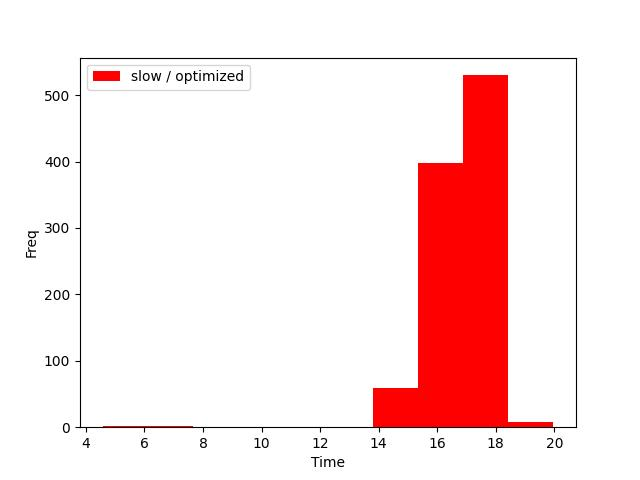
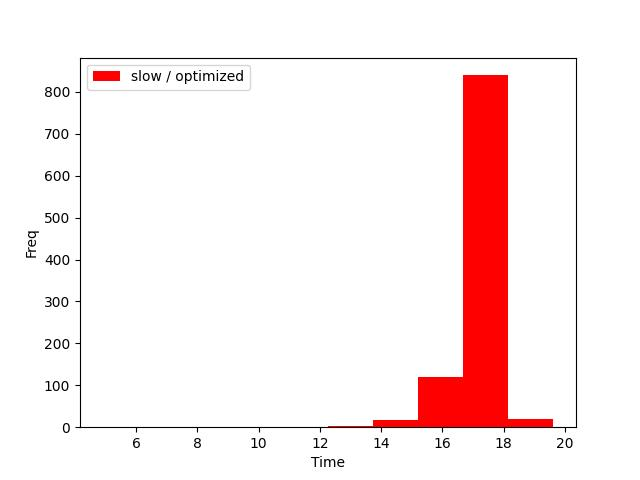
plot&hist 123

diff --git a/assignment1/20240454.py b/assignment1/20240454.py
@@ -28,13 +28,13 @@ slow = np.zeros(1000)
 optimized = np.zeros(1000)
 for i in range(1000):
     X = np.random.uniform(0, 1, n)
-    start = time.time()
+    start = time.perf_counter()
     prefixAverages1(X, n)
-    slow[i] = time.time() - start
+    slow[i] = time.perf_counter() - start
 
-    start = time.time()
+    start = time.perf_counter()
     prefixAverages2(X, n)
-    optimized[i] = time.time() - start
+    optimized[i] = time.perf_counter() - start
 
 plt.hist(slow / optimized, color='red', label='slow / optimized')
 # plt.hist(optimized, color='green', label='optimized')
@@ -58,13 +58,13 @@ for i in range(6, 13):
     for j in range(1000):
         X = np.random.uniform(0, 1, n)
         
-        start = time.time()
+        start = time.perf_counter()
         prefixAverages1(X, n)
-        slow[j] = time.time() - start
+        slow[j] = time.perf_counter() - start
         
-        start = time.time()
+        start = time.perf_counter()
         prefixAverages2(X, n)
-        optimized[j] = time.time() - start
+        optimized[j] = time.perf_counter() - start
     minTime.append((slow / optimized).min())
     maxTime.append((slow / optimized).max())
     avgTime.append((slow / optimized).mean())
@@ -109,47 +109,50 @@ def movingAverages2(X, n, k):
 
 n = 2 ** 6
 k = 2 ** 5
-slow = list()
-optimized = list()
-for _ in range(1000):
+slow = np.zeros(1000)
+optimized = np.zeros(1000)
+for i in range(1000):
     X = np.random.uniform(0, 1, n)
-    start = time.time()
+    start = time.perf_counter()
     movingAverages1(X, n, k)
-    slow.append(time.time() - start)
+    slow[i] = time.perf_counter() - start
 
-    start = time.time()
+    start = time.perf_counter()
     movingAverages2(X, n, k)
-    optimized.append(time.time() - start)
+    optimized[i] = time.perf_counter() - start
 
-plt.hist(slow, color='red', label='slow')
-plt.hist(optimized, color='green', label='optimized')
+plt.hist(slow / optimized, color='red', label='slow / optimized')
 plt.legend()
-plt.xscale("log")
-plt.xlabel("Time")
+# plt.xscale("log")
+plt.xlabel("Time Ratio")
 plt.ylabel("Freq")
 plt.savefig("./ratio_hist2.jpg")
 
 plt.clf()
 
+print("ratio hist 2")
+
 minTime = list()
 maxTime = list()
 avgTime = list()
+k = 2 ** 5
 for i in range(7, 12):
     n = 2 ** i
     slow = np.zeros(1000)
     optimized = np.zeros(1000)
     for j in range(1000):
         X = np.random.uniform(0, 1, n)
-        start = time.time()
+        start = time.perf_counter()
         movingAverages1(X, n, k)
-        slow[j] = time.time() - start
+        slow[j] = time.perf_counter() - start
         
-        start = time.time()
+        start = time.perf_counter()
         movingAverages2(X, n, k)
-        optimized[j] = time.time() - start
-    minTime.append(slow.min() / optimized.min())
-    maxTime.append(slow.max() / optimized.max())
-    avgTime.append(slow.mean() / optimized.mean())
+        optimized[j] = time.perf_counter() - start
+    minTime.append((slow / optimized).min())
+    maxTime.append((slow / optimized).max())
+    avgTime.append((slow / optimized).mean())
+    print(i)
     
 nSize = [2 ** i for i in range(7, 12)]
 
@@ -165,45 +168,43 @@ plt.savefig("./ratio plot2.jpg")
 
 plt.clf()
 
+print("ratio plot 2")
 #==============1-3===============
 
 def findMissing(A, n):
-    return (n * (n - 1) / 2) - sum(A)
+    return (n * (n - 1) // 2) - sum(A)
 
-six = np.array()
+six = np.zeros(1000)
 n = 2 ** 6
-for _ in range(1000):
+for i in range(1000):
     A = list(range(n))
     np.random.shuffle(A)
     A.pop()
-    start = time.time()
+    start = time.perf_counter()
     findMissing(A, n)
-    six.append(time.time() - start)
-    
-seven = np.array()
-n = 2 ** 7
-for _ in range(1000):
-    A = list(range(n))
-    np.random.shuffle(A)
-    A.pop()
-    start = time.time()
-    findMissing(A, n)
-    seven.append(time.time() - start)
+    six[i] = time.perf_counter() - start
 
-# plt.subplot(121)
+seven = np.zeros(1000)
+n = 2 ** 7
+for i in range(1000):
+    A = list(range(n))
+    np.random.shuffle(A)
+    A.pop()
+    start = time.perf_counter()
+    findMissing(A, n)
+    seven[i] = time.perf_counter() - start
+
+
+
 plt.hist(seven / six, color='red', label='2**7 / 2**6')
 plt.legend()
-plt.xlabel("Time")
+plt.xlabel("Time Ratio")
 plt.ylabel("Freq")
-
-# plt.subplot(122)
-# plt.hist(seven, color='green', label='2**7')
-# plt.legend()
-# plt.xlabel("Time")
-# plt.ylabel("Freq")
 
 plt.savefig("./ratio_hist3.jpg")
 plt.clf()
+
+print("Ratio Hist 3")
 
 minTime = list()
 maxTime = list()
@@ -213,19 +214,20 @@ for i in range(7, 12):
     find = np.zeros(1000)
     for j in range(1000):
         X = np.random.uniform(0, 1, n)
-        start = time.time()
+        start = time.perf_counter()
         findMissing(X, n)
-        find[j] = time.time() - start
-    minTime.append(optimized.min())
-    maxTime.append(optimized.max())
-    avgTime.append(optimized.mean())
+        find[j] = time.perf_counter() - start
+    minTime.append((find / six).min())
+    maxTime.append((find / six).max())
+    avgTime.append((find / six).mean())
+    print(i)
     
-nSize = [f"2 ** {i} / 2 ** 6" for i in range(7, 12)]
+nSize = [2 ** i / 2 ** 6 for i in range(7, 12)]
 
 plt.plot(nSize, minTime, marker='o', label='Min Time')
 plt.plot(nSize, maxTime, marker='s', label='Max Time')
 plt.plot(nSize, avgTime, marker='^', label='Average Time')
-plt.xlabel("n/2^6")
+plt.xlabel("2^n/2^6")
 plt.ylabel("ratio")
 plt.xscale("log", base=2)
 plt.yscale("log")
@@ -234,74 +236,76 @@ plt.savefig("./ratio plot3.jpg")
 
 plt.clf()
 
-def countOnes(A, n):
-    loc = n - 1
-    cnt = 0
-    for i in range(n):
-        while A[i][loc] == 0:
-            if loc == 0:
-                return cnt
-            loc -= 1
-        cnt += loc + 1
-    return cnt
+print("Ratio plot 3")
 
-def countOnesButSlow(A, n):
-    c = 0
-    for i in range(n):
-        j = 0
-        while j < n and A[i][j]:
-            c += 1
-            j += 1
-    return c
+# def countOnes(A, n):
+#     loc = n - 1
+#     cnt = 0
+#     for i in range(n):
+#         while A[i][loc] == 0:
+#             if loc == 0:
+#                 return cnt
+#             loc -= 1
+#         cnt += loc + 1
+#     return cnt
 
-n = 2 ** 6
-slow = list()
-optimized = list()
-for _ in range(1000):
-    A = np.zeros((n, n))
-    numOfOne = sorted(np.random.randint(0, n + 1, size=n), reverse=True)
-    for i in range(0, n):
-        A[i, :numOfOne[i]] = 1
+# def countOnesButSlow(A, n):
+#     c = 0
+#     for i in range(n):
+#         j = 0
+#         while j < n and A[i][j]:
+#             c += 1
+#             j += 1
+#     return c
+
+# n = 2 ** 6
+# slow = list()
+# optimized = list()
+# for _ in range(1000):
+#     A = np.zeros((n, n))
+#     numOfOne = sorted(np.random.randint(0, n + 1, size=n), reverse=True)
+#     for i in range(0, n):
+#         A[i, :numOfOne[i]] = 1
     
-    start = time.time()
-    countOnesButSlow(A, n)
-    slow.append(time.time() - start)
+#     start = time.perf_counter()
+#     countOnesButSlow(A, n)
+#     slow.append(time.perf_counter() - start)
 
-    start = time.time()
-    countOnes(A, n)
-    optimized.append(time.time() - start)
+#     start = time.perf_counter()
+#     countOnes(A, n)
+#     optimized.append(time.perf_counter() - start)
     
-plt.hist(slow, color='red', label='slow')
-plt.hist(optimized, color='green', label='optimized')
-plt.legend()
-plt.xscale("log")
-plt.xlabel("Time")
-plt.ylabel("Freq")
-plt.savefig("./ratio_hist4.jpg")
+# plt.hist(slow, color='red', label='slow')
+# plt.hist(optimized, color='green', label='optimized')
+# plt.legend()
+# plt.xscale("log")
+# plt.xlabel("Time")
+# plt.ylabel("Freq")
+# plt.savefig("./ratio_hist4.jpg")
 
-minTime = list()
-maxTime = list()
-avgTime = list()
-for i in range(7, 13):
-    n = 2 ** i
-    find = np.zeros(1000)
-    for j in range(1000):
-        X = np.random.uniform(0, 1, n)
-        start = time.time()
-        countOnes(X, n)
-        find[j] = time.time() - start
-    minTime.append(find.min())
-    maxTime.append(find.max())
-    avgTime.append(find.mean())
+# minTime = list()
+# maxTime = list()
+# avgTime = list()
+# for i in range(7, 13):
+#     n = 2 ** i
+#     find = np.zeros(1000)
+#     for j in range(1000):
+#         X = np.random.uniform(0, 1, n)
+#         start = time.perf_counter()
+#         countOnes(X, n)
+#         find[j] = time.perf_counter() - start
+#     minTime.append(find.min())
+#     maxTime.append(find.max())
+#     avgTime.append(find.mean())
     
-nSize = [2 ** i for i in range(7, 13)]
+# nSize = [2 ** i for i in range(7, 13)]
 
-plt.plot(nSize, minTime, marker='o', label='Min Time')
-plt.plot(nSize, maxTime, marker='s', label='Max Time')
-plt.plot(nSize, avgTime, marker='^', label='Average Time')
-plt.xlabel("n/2^6")
-plt.ylabel("ratio")
-plt.xscale("log", base=2)
-plt.yscale("log")
-plt.legend()
-plt.savefig("./ratio plot3.jpg")
+# plt.plot(nSize, minTime, marker='o', label='Min Time')
+# plt.plot(nSize, maxTime, marker='s', label='Max Time')
+# plt.plot(nSize, avgTime, marker='^', label='Average Time')
+# plt.xlabel("n/2^6")
+# plt.ylabel("ratio")
+# plt.xscale("log", base=2)
+# plt.yscale("log")
+# plt.legend()
+# plt.savefig("./ratio plot3.jpg")
